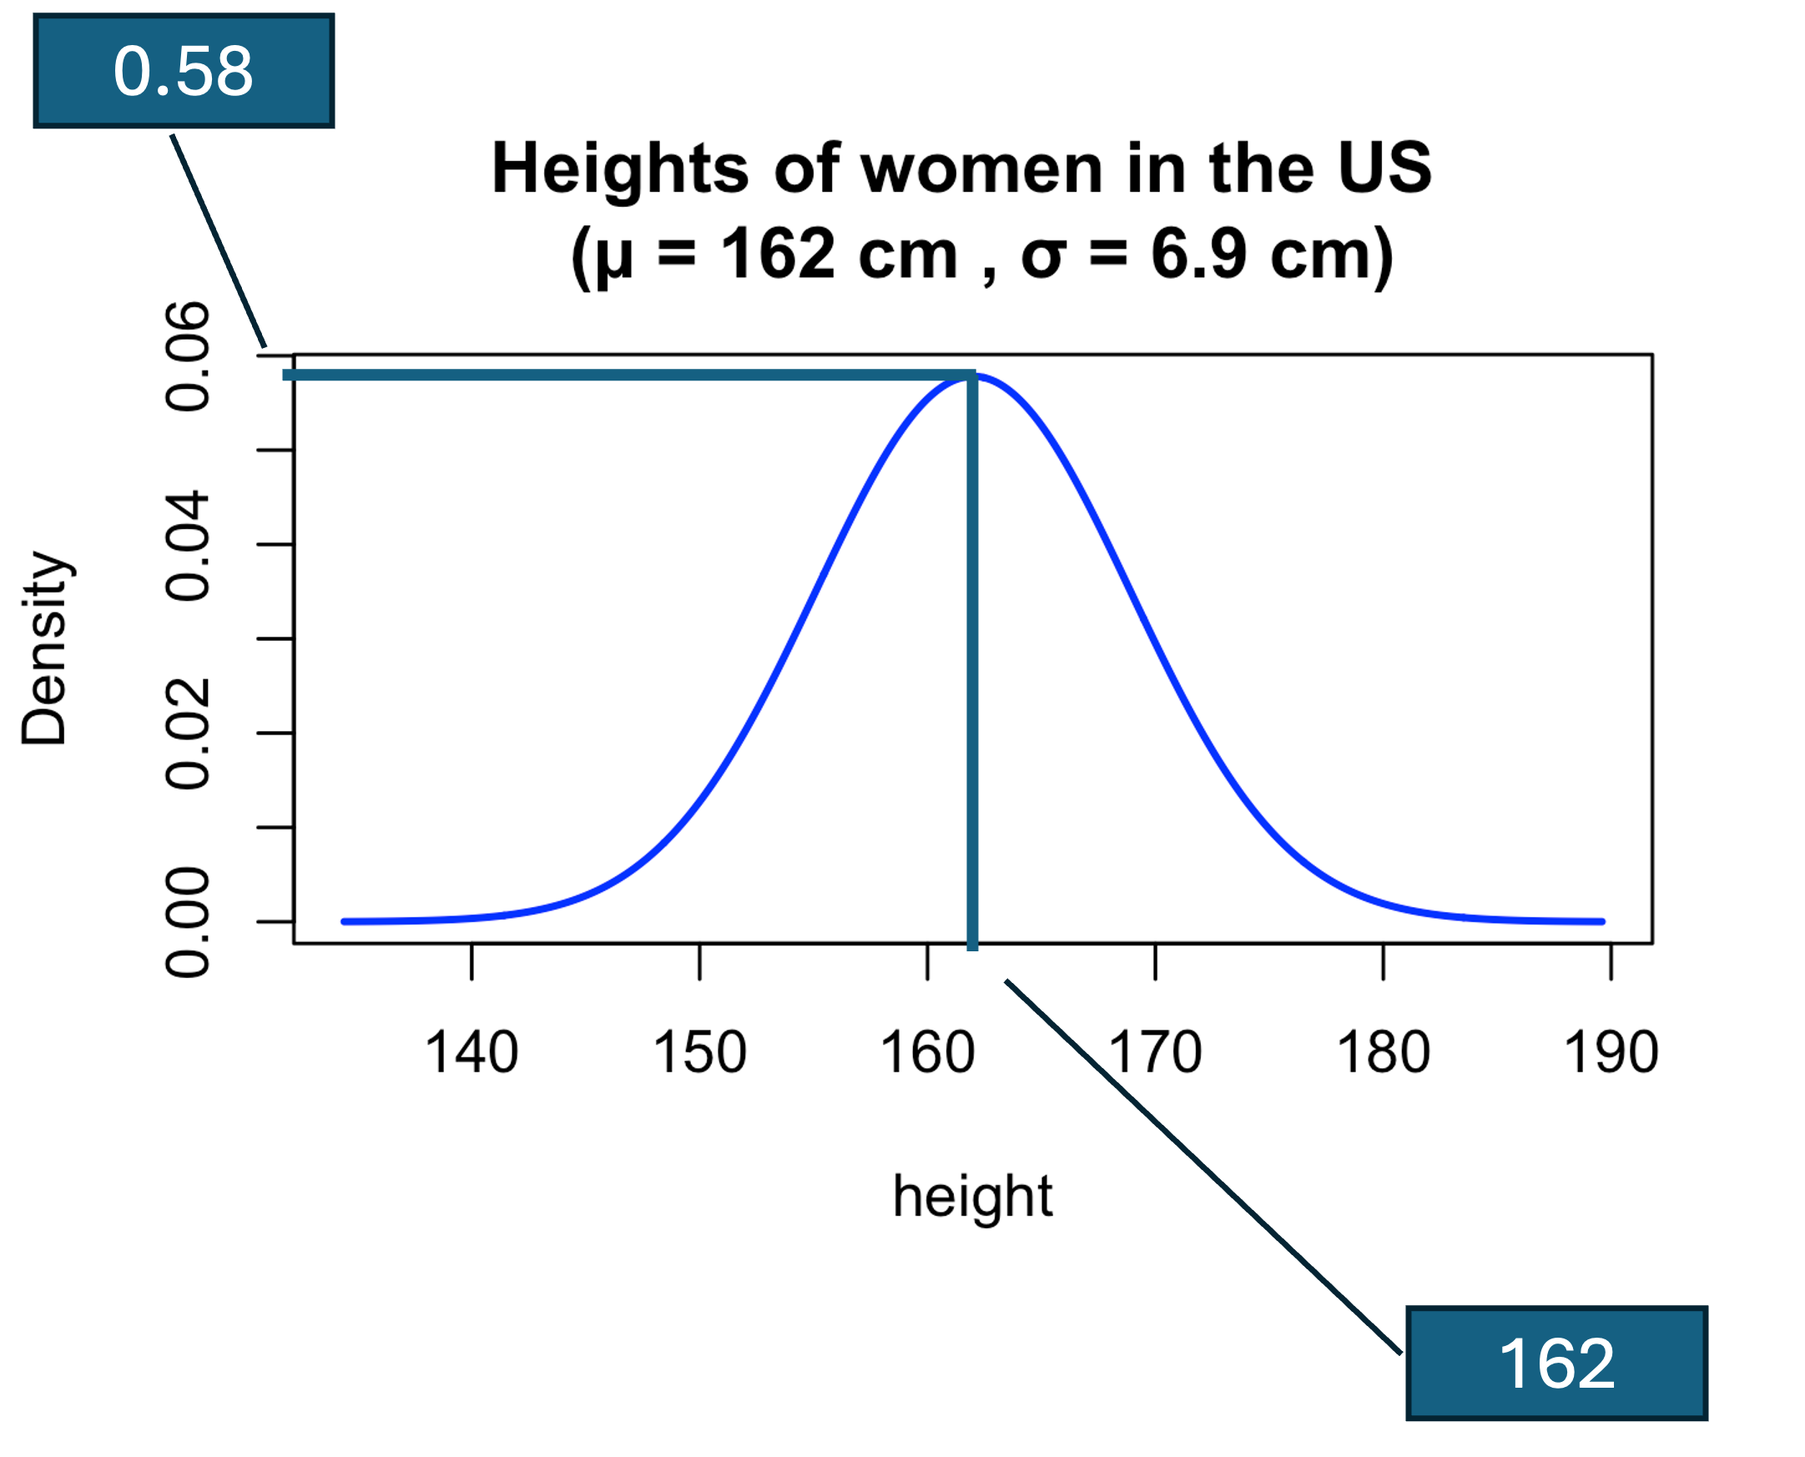
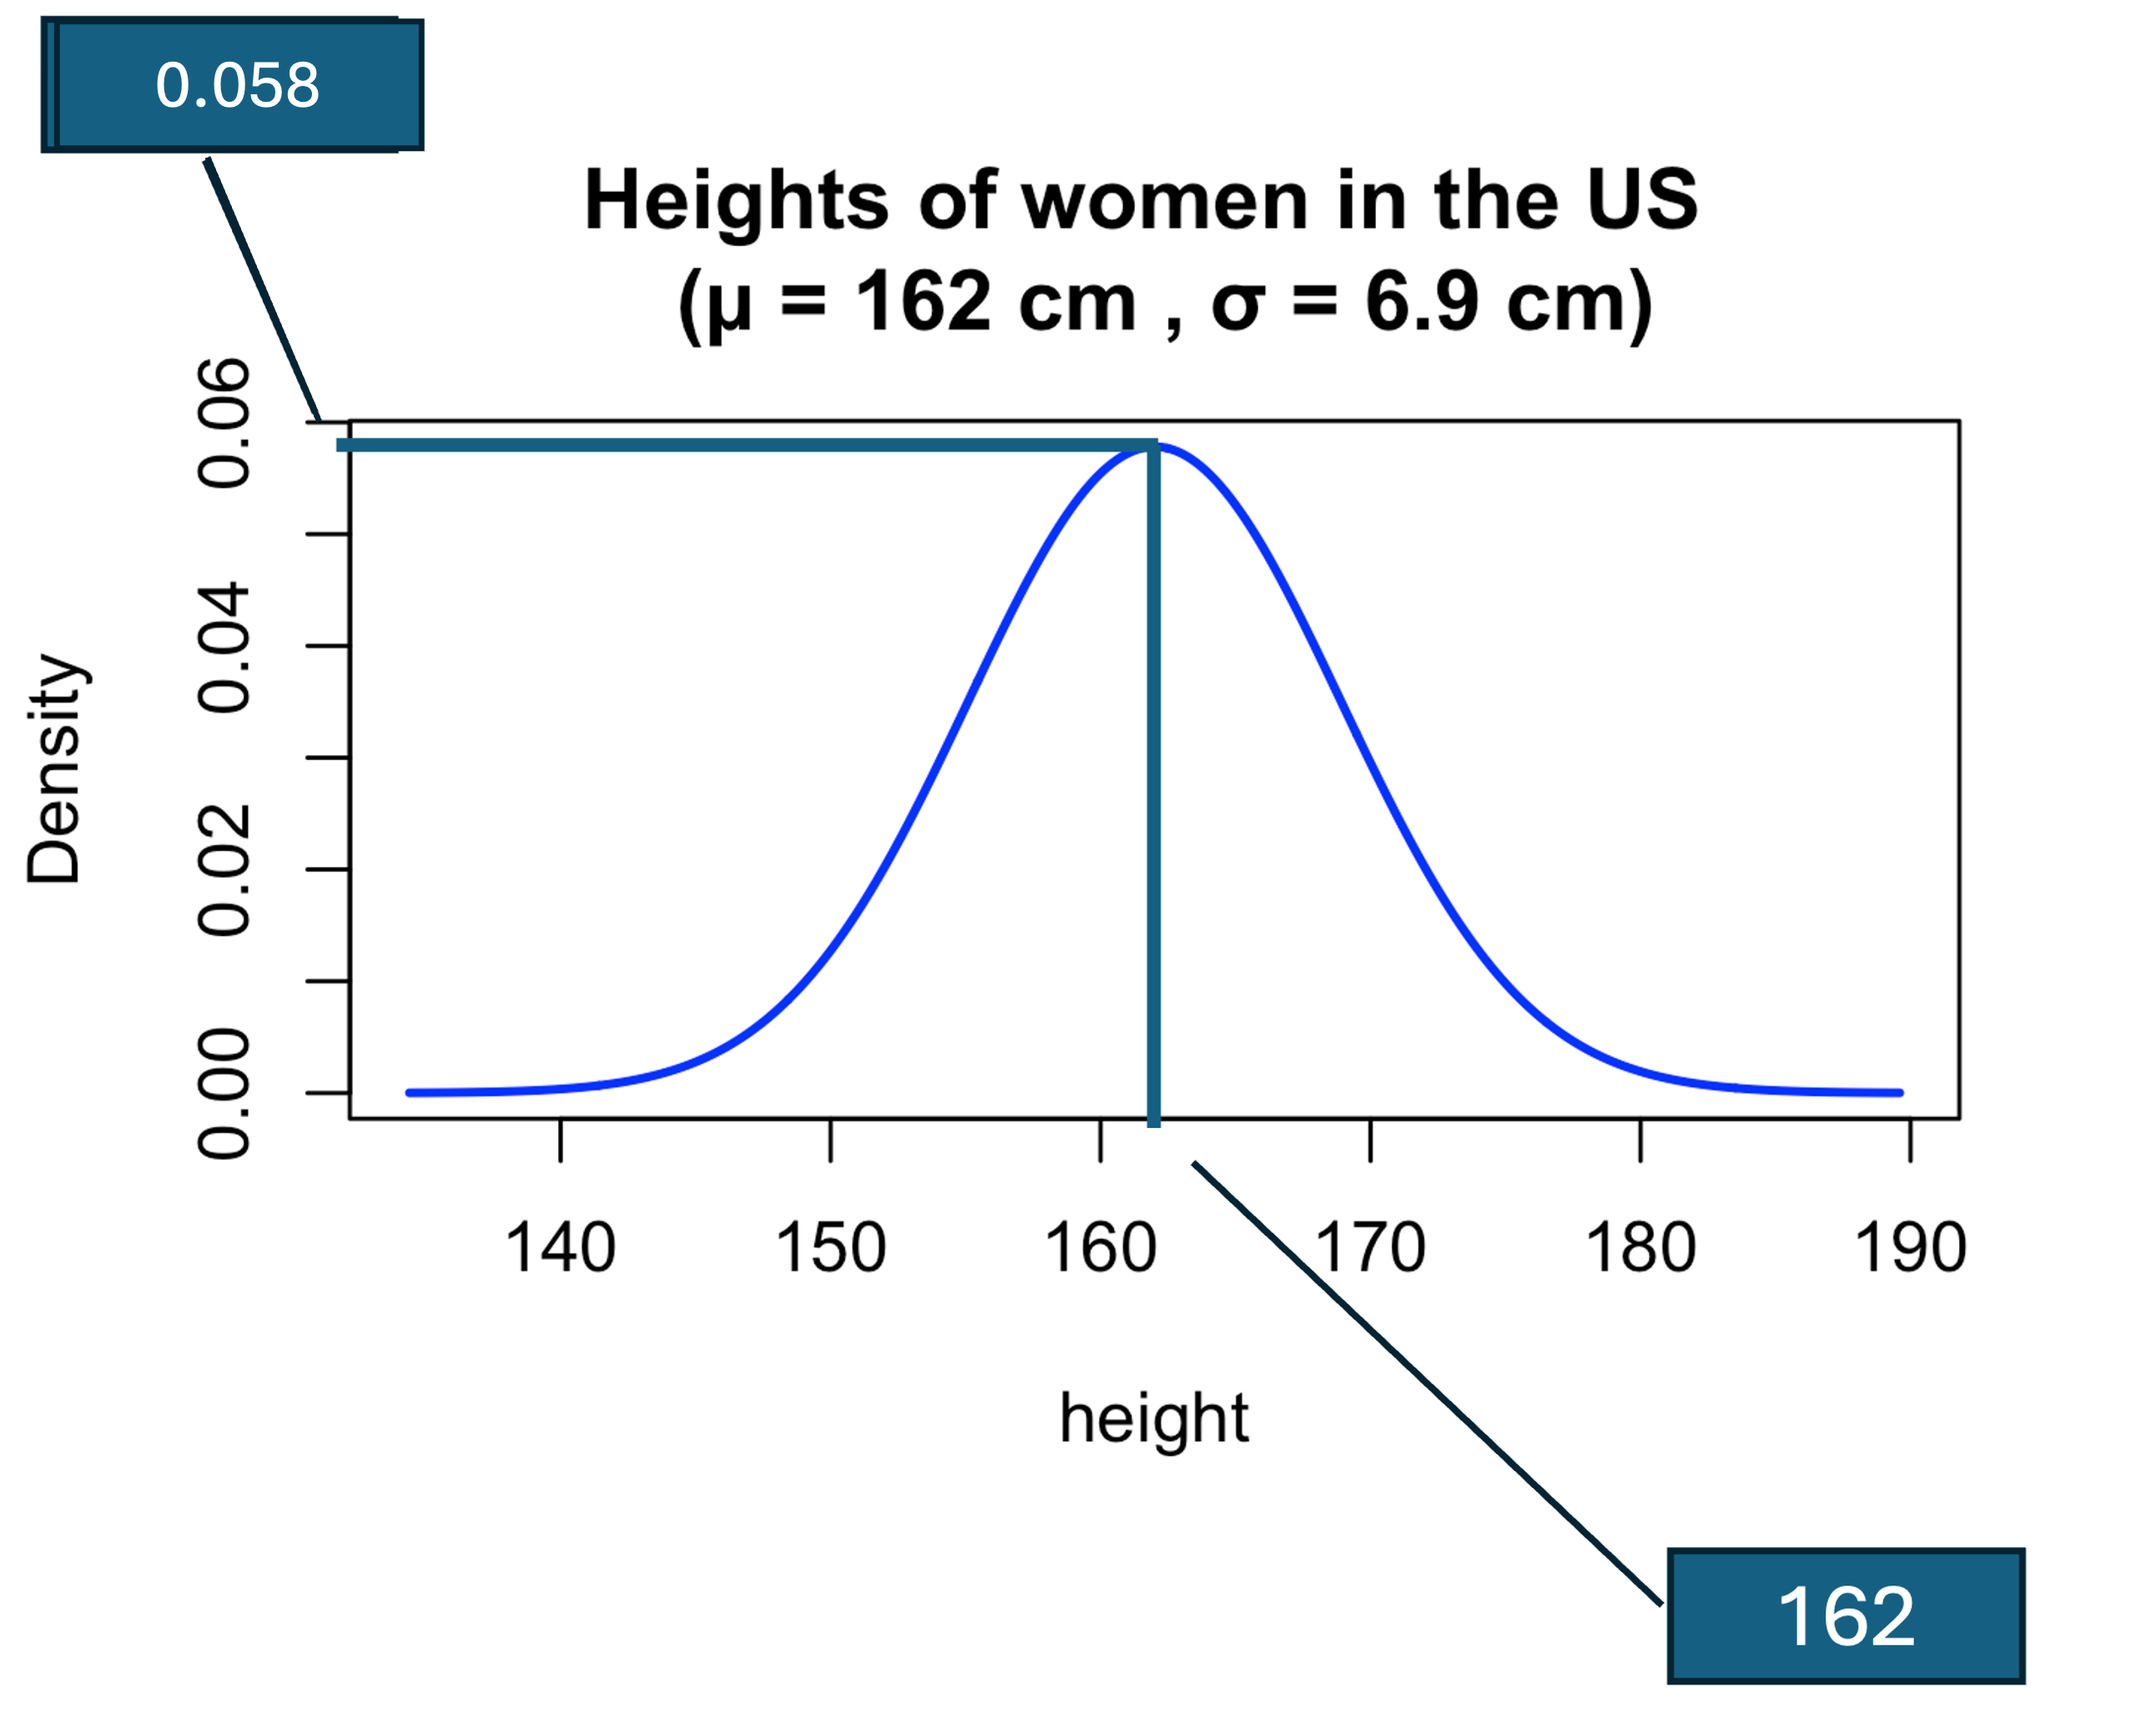
Built site for gh-pages

diff --git a/modules/03-introduction-to-models/path-to-models-story.html b/modules/03-introduction-to-models/path-to-models-story.html
@@ -542,7 +542,7 @@ Definition of model for our present purposes
 <p>10 minutes later Dave announces “Amanda, we have discussed. Our number is 6”.</p>
 <p>“Thanks, Dave. I will now randomly generate the number of customers for 20 days based on our data and we can jointly compute the total penalty.”</p>
 <p><a href="#tbl-decision-penalty-6" class="quarto-xref">Table&nbsp;<span>5.1</span></a> shows the computation and the results. The total penalty was 219.</p>
-<div id="tbl-decision-penalty-6" class="quarto-float quarto-figure quarto-figure-center anchored" data-quarto-postprocess="true" style="border-collapse:collapse;">
+<div id="tbl-decision-penalty-6" class="quarto-float quarto-figure quarto-figure-center anchored" style="border-collapse:collapse;" data-quarto-postprocess="true">
 <figure class="quarto-float quarto-float-tbl figure">
 <figcaption class="quarto-float-caption-top quarto-float-caption quarto-float-tbl" id="tbl-decision-penalty-6-caption-0ceaefa1-69ba-4598-a22c-09a6ac19f8ca">
 Table&nbsp;5.1: Decision, random choices, and resulting penalties (Decision = 6)
@@ -702,7 +702,7 @@ Suggested answer
 <p>Amanda: “The total penalty was 219. Can you reduce the penalty?”</p>
 <p>Paul: “Let’s try 7.”</p>
 <p><a href="#tbl-decision-penalty-7" class="quarto-xref">Table&nbsp;<span>5.2</span></a> shows the results. The total penalty this time is slightly higher at 230.</p>
-<div id="tbl-decision-penalty-7" class="quarto-float quarto-figure quarto-figure-center anchored" data-quarto-postprocess="true" style="border-collapse:collapse;">
+<div id="tbl-decision-penalty-7" class="quarto-float quarto-figure quarto-figure-center anchored" style="border-collapse:collapse;" data-quarto-postprocess="true">
 <figure class="quarto-float quarto-float-tbl figure">
 <figcaption class="quarto-float-caption-top quarto-float-caption quarto-float-tbl" id="tbl-decision-penalty-7-caption-0ceaefa1-69ba-4598-a22c-09a6ac19f8ca">
 Table&nbsp;5.2: Decision, random choices, and resulting penalties (Decision = 7)
@@ -972,7 +972,7 @@ Suggested answer
 <h2 data-number="5.3" class="anchored" data-anchor-id="average-or-mean-as-the-decision-in-the-long-run"><span class="header-section-number">5.3</span> Average or <em>mean</em> as the decision in the long run</h2>
 <p>David had a thought. “Let us try the decision value of 4 using Amanda’s approach and see what total penalty we get for 20 trials.”</p>
 <p>They did, and <a href="#tbl-decision-penalty-4" class="quarto-xref">Table&nbsp;<span>5.3</span></a> shows that indeed the total penalty for this is lower than the first two and the average penalty per trial is 166/20. This is higher than the average of 7 with 10,000 trials, but we can chalk it up to using only 20 trials.</p>
-<div id="tbl-decision-penalty-4" class="quarto-float quarto-figure quarto-figure-center anchored" data-quarto-postprocess="true" style="border-collapse:collapse;">
+<div id="tbl-decision-penalty-4" class="quarto-float quarto-figure quarto-figure-center anchored" style="border-collapse:collapse;" data-quarto-postprocess="true">
 <figure class="quarto-float quarto-float-tbl figure">
 <figcaption class="quarto-float-caption-top quarto-float-caption quarto-float-tbl" id="tbl-decision-penalty-4-caption-0ceaefa1-69ba-4598-a22c-09a6ac19f8ca">
 Table&nbsp;5.3: Decision, random choices, and resulting penalties (Decision = 4)

diff --git a/modules/07-probability/probability-distributions.html b/modules/07-probability/probability-distributions.html
@@ -609,7 +609,7 @@ Figure&nbsp;20.2: Number of occurrences of each die face in 1000 die rolls
 </div>
 </div>
 <p>The dataset has 234 rows and roughly 2% of the vehicles are two-seaters and 20% of the cars are compacts. Therefore: - The probability of picking a compact is 0.20 - The probability of picking a 2-seater is only 0.02</p>
-<p>2fig-mpg-class-bar shows these probabilities as a bar chart.</p>
+<p><a href="#fig-mpg-class-bar" class="quarto-xref">Figure&nbsp;<span>20.3</span></a> shows these probabilities as a bar chart.</p>
 <div id="fig-mpg-class-bar" class="quarto-float quarto-figure quarto-figure-center anchored" data-fig-align="center">
 <figure class="quarto-float quarto-float-fig figure">
 <div aria-describedby="fig-mpg-class-bar-caption-0ceaefa1-69ba-4598-a22c-09a6ac19f8ca">
@@ -750,14 +750,14 @@ Suggested answer
 <h2 data-number="20.7" class="anchored" data-anchor-id="the-probability-density-function-pdf"><span class="header-section-number">20.7</span> The Probability Density Function (PDF)</h2>
 <p>The smooth curve that describes a continuous distribution is called a <em>probability density function</em>, or PDF. The name contains an important clue: the y-axis gives <em>density</em>, not probability.</p>
 <p>Think of density the way you think of population density in geography. A city might have a high population density – many people per square kilometer – without you being able to say exactly how many people live at one specific GPS coordinate. Similarly, a high density value at a given x-value tells you that outcomes near that x-value are relatively common, without giving you the probability of any single exact outcome.</p>
-<p>Consider the distribution of heights of adult women in the United States. Suppose the PDF has a value of 0.58 at a height of 162 cm.</p>
+<p>Consider the distribution of heights of adult women in the United States. Suppose the PDF has a value of 0.058 at a height of 162 cm.</p>
 <div id="fig-continuous-pdf-density-labeled" class="quarto-float quarto-figure quarto-figure-center anchored" data-fig-align="center">
 <figure class="quarto-float quarto-float-fig figure">
 <div aria-describedby="fig-continuous-pdf-density-labeled-caption-0ceaefa1-69ba-4598-a22c-09a6ac19f8ca">
 <img src="../../images/fig-continuous-pdf-density-labeled.png" class="img-fluid quarto-figure quarto-figure-center figure-img" style="width:70.0%">
 </div>
 <figcaption class="quarto-float-caption-bottom quarto-float-caption quarto-float-fig" id="fig-continuous-pdf-density-labeled-caption-0ceaefa1-69ba-4598-a22c-09a6ac19f8ca">
-Figure&nbsp;20.8: Density for a height of 162 cm is 0.58
+Figure&nbsp;20.8: Density for a height of 162 cm is 0.058
 </figcaption>
 </figure>
 </div>
